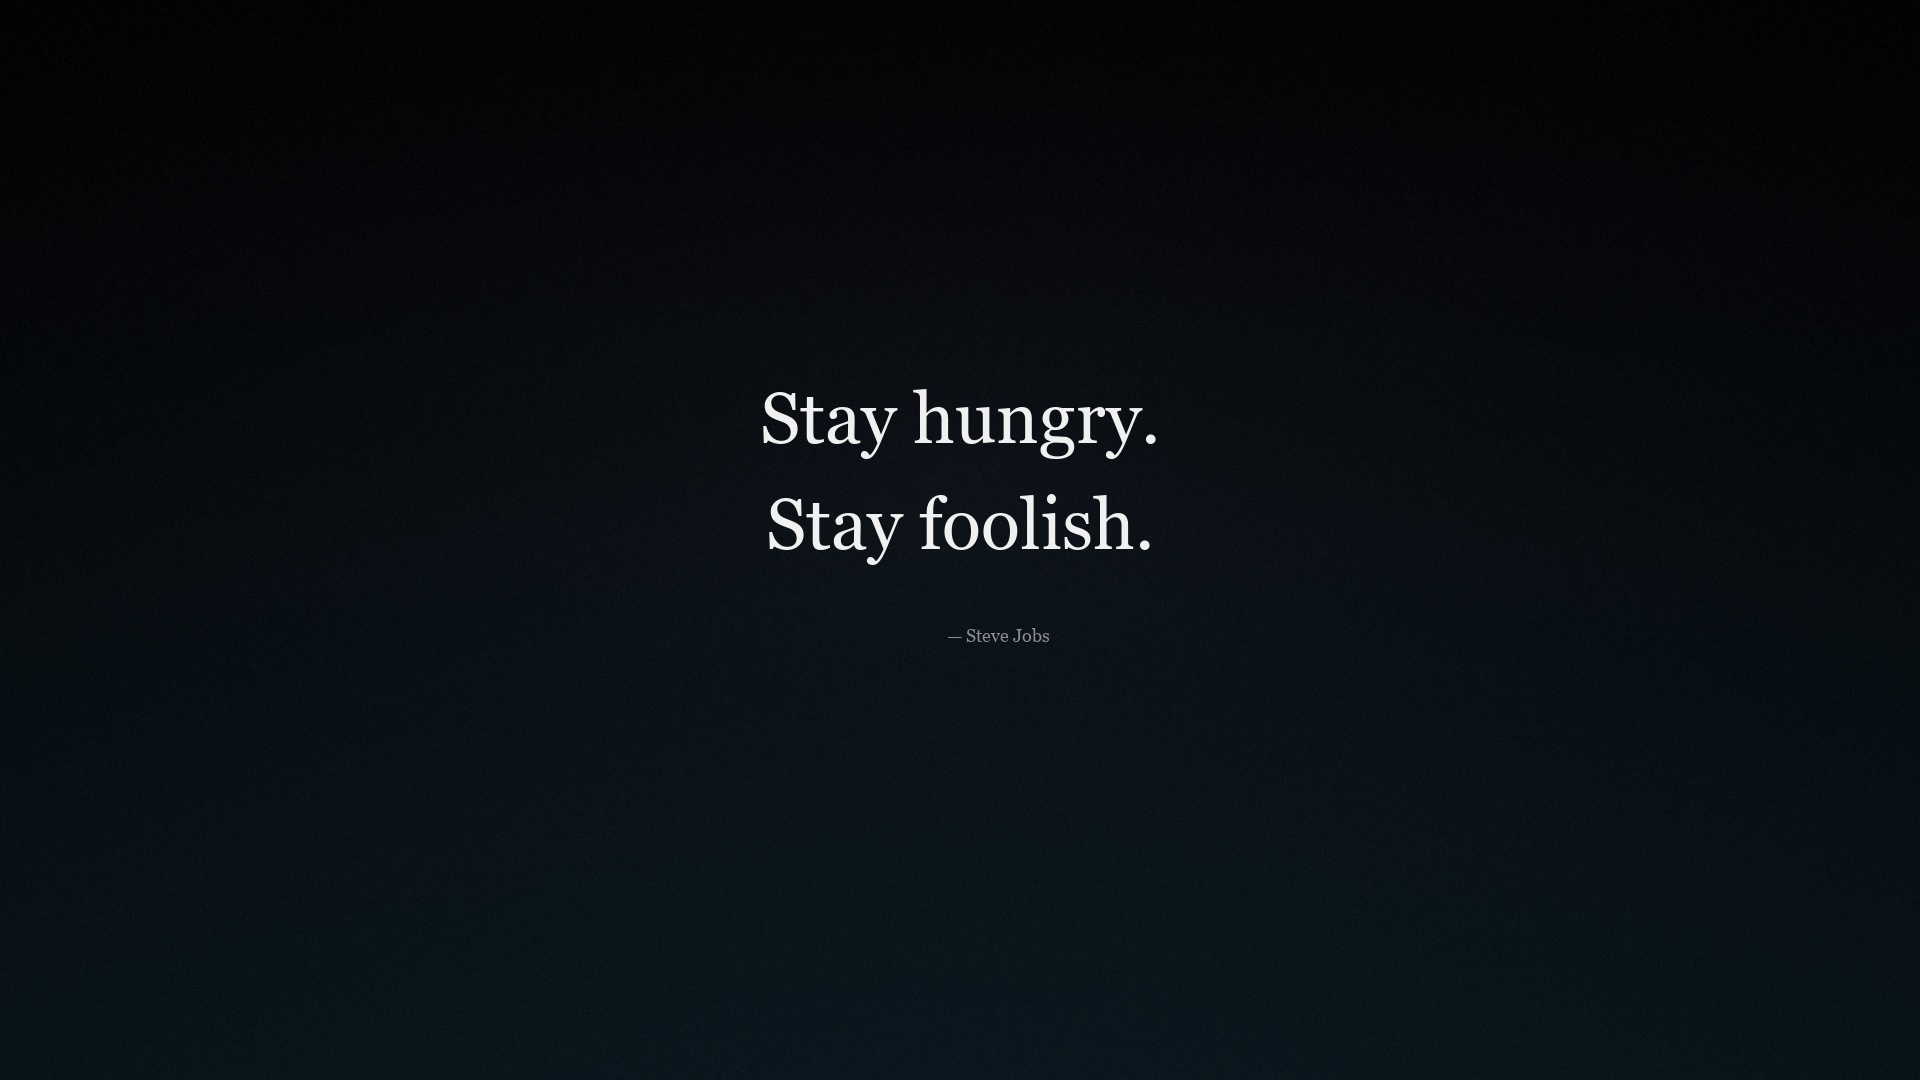
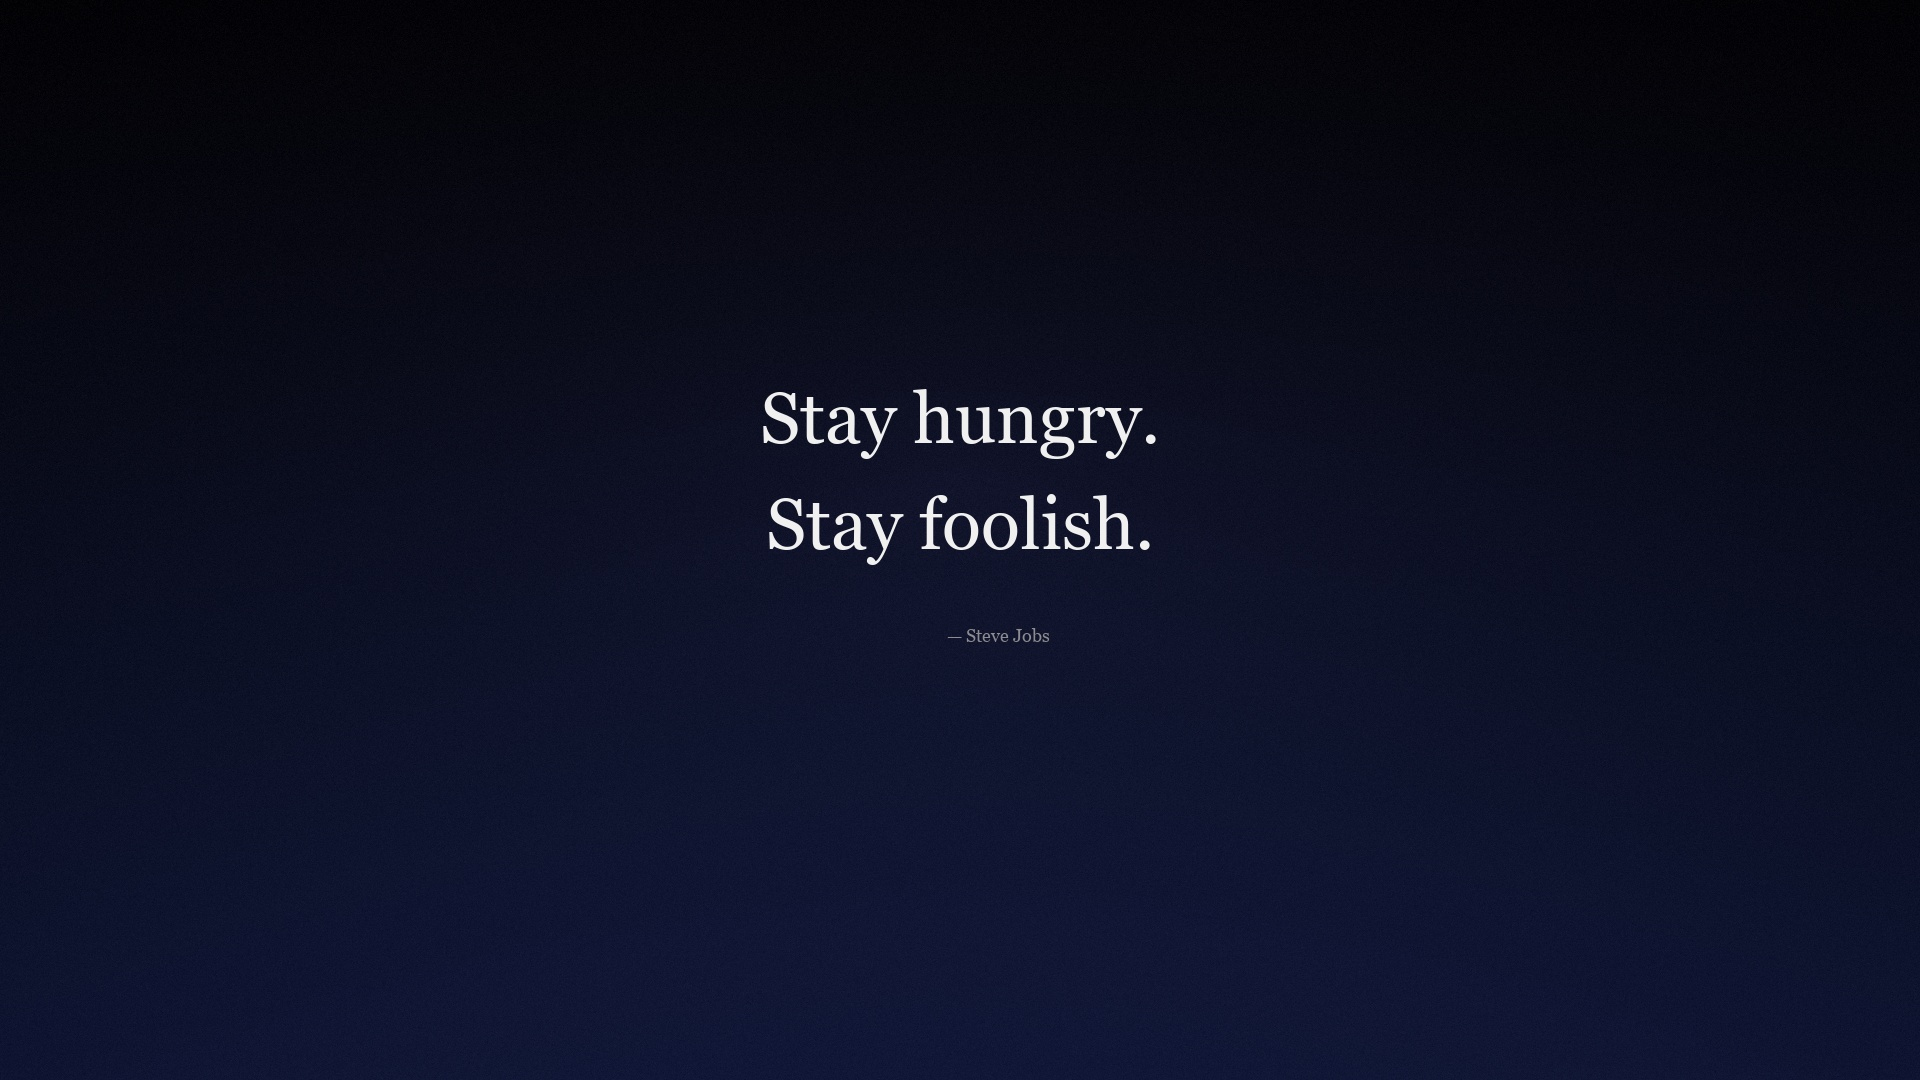
Strengthen bg colors 2x, add Garamond/Palatino/BookAntiqua fonts, --compare-font CLI

Changed region(s): [[0.0, 0.7028, 1.0, 1.0], [0.3125, 0.6111, 0.3438, 0.6417]]

diff --git a/src/wallpaper_generator.py b/src/wallpaper_generator.py
@@ -31,6 +31,20 @@ FONTS_SERIF = [
     "C:/Windows/Fonts/times.ttf",
 ]
 
+# Premium serif fonts available on Windows — more character than Georgia
+FONTS_GARAMOND = [
+    "C:/Windows/Fonts/GARA.TTF",          # Garamond — elegant, classic
+    "C:/Windows/Fonts/georgia.ttf",
+]
+FONTS_PALATINO = [
+    "C:/Windows/Fonts/pala.ttf",           # Palatino Linotype — warm, refined
+    "C:/Windows/Fonts/georgia.ttf",
+]
+FONTS_BOOKANTIQUA = [
+    "C:/Windows/Fonts/BOOKOS.TTF",         # Book Antiqua — literary, clean
+    "C:/Windows/Fonts/georgia.ttf",
+]
+
 FONTS_REGULAR = [
     "C:/Windows/Fonts/segoeuisl.ttf",    # Semilight for author
     "C:/Windows/Fonts/segoeuil.ttf",
@@ -69,7 +83,28 @@ STYLE_PRESETS: dict[str, dict[str, Any]] = {
         "font_author_candidates": FONTS_SERIF,
         "size_scale": 0.85,
         "author_color": (140, 140, 145),
-        "description": "Classic serif",
+        "description": "Georgia serif",
+    },
+    "garamond": {
+        "font_candidates": FONTS_GARAMOND,
+        "font_author_candidates": FONTS_GARAMOND,
+        "size_scale": 0.90,
+        "author_color": (140, 140, 145),
+        "description": "Garamond — elegant classic",
+    },
+    "palatino": {
+        "font_candidates": FONTS_PALATINO,
+        "font_author_candidates": FONTS_PALATINO,
+        "size_scale": 0.85,
+        "author_color": (140, 140, 145),
+        "description": "Palatino — warm refined",
+    },
+    "bookantiqua": {
+        "font_candidates": FONTS_BOOKANTIQUA,
+        "font_author_candidates": FONTS_BOOKANTIQUA,
+        "size_scale": 0.85,
+        "author_color": (140, 140, 145),
+        "description": "Book Antiqua — literary clean",
     },
 }
 
@@ -232,34 +267,34 @@ def _generate_gradient(width: int, height: int) -> Image.Image:
 
 
 def _generate_spotlight(width: int, height: int) -> Image.Image:
-    """Spotlight: clear light cone from upper-center, dark surroundings.
+    """Spotlight: visible light pool at center, deep indigo-black edges.
 
-    The quote sits in a pool of soft light. Edges fall off noticeably.
+    Quote floats in a soft blue-tinted light. Clearly not flat black.
     """
     ys = np.linspace(0, 1, height, dtype=np.float32).reshape(-1, 1)
     xs = np.linspace(0, 1, width, dtype=np.float32).reshape(1, -1)
 
-    # Base: very dark
-    r = np.full((height, width), 5.0, dtype=np.float32)
-    g = np.full((height, width), 5.0, dtype=np.float32)
-    b = np.full((height, width), 8.0, dtype=np.float32)
+    # Base: deep indigo-black (not pure black — has color)
+    r = np.full((height, width), 6.0, dtype=np.float32)
+    g = np.full((height, width), 6.0, dtype=np.float32)
+    b = np.full((height, width), 16.0, dtype=np.float32)   # visible blue-black
 
-    # Primary spotlight: upper-center, oval, strong enough to see clearly
-    spot_cx, spot_cy = 0.50, 0.35
-    spot_dist = np.sqrt((xs - spot_cx) ** 2 / 0.18 + (ys - spot_cy) ** 2 / 0.12)
-    spot = np.clip(1.0 - spot_dist, 0, 1) ** 2.0 * 38  # visible cone of light
+    # Primary spotlight: center, oval, strong — the defining feature
+    spot_cx, spot_cy = 0.50, 0.38
+    spot_dist = np.sqrt((xs - spot_cx) ** 2 / 0.16 + (ys - spot_cy) ** 2 / 0.10)
+    spot = np.clip(1.0 - spot_dist, 0, 1) ** 1.8 * 55  # strong pool of light
 
-    r = r + spot * 0.85
-    g = g + spot * 0.85
-    b = b + spot * 0.95  # slightly cool light
+    r = r + spot * 0.65
+    g = g + spot * 0.70
+    b = b + spot * 1.0   # distinctly cool/blue light
 
-    # Secondary fill: broader, weaker — prevents pure black at edges
-    fill_dist = np.sqrt((xs - 0.5) ** 2 + (ys - 0.5) ** 2)
+    # Fill glow: softer, broader — gives depth to mid-zones
+    fill_dist = np.sqrt((xs - 0.5) ** 2 + (ys - 0.48) ** 2)
     fill_dist = fill_dist / fill_dist.max()
-    fill = np.clip(1.0 - fill_dist, 0, 1) ** 1.8 * 10
-    r = r + fill * 0.7
-    g = g + fill * 0.7
-    b = b + fill * 0.8
+    fill = np.clip(1.0 - fill_dist, 0, 1) ** 2.0 * 15
+    r = r + fill * 0.5
+    g = g + fill * 0.5
+    b = b + fill * 0.9
 
     # Vignette: strong edge darkening
     vignette = 1.0 - (fill_dist ** 1.2 * 0.55)
@@ -267,7 +302,6 @@ def _generate_spotlight(width: int, height: int) -> Image.Image:
     g = g * vignette
     b = b * vignette
 
-    # Noise
     noise = np.random.normal(0, 2.0, (height, width)).astype(np.float32)
     r = np.clip(r + noise, 0, 255)
     g = np.clip(g + noise, 0, 255)
@@ -278,45 +312,43 @@ def _generate_spotlight(width: int, height: int) -> Image.Image:
 
 
 def _generate_deep_gradient(width: int, height: int) -> Image.Image:
-    """Deep gradient: near-black top → visible deep color at bottom.
+    """Deep gradient: black top → clearly visible deep navy/indigo at bottom.
 
-    Color difference is clearly perceptible but not vivid.
+    You can SEE the color — dark but unmistakably not just black.
     """
-    # Palettes with stronger color at bottom
     palettes = [
-        ((4, 4, 6),   (18, 24, 48)),     # black → deep navy
-        ((4, 4, 6),   (12, 28, 36)),     # black → smoky teal
-        ((4, 4, 8),   (22, 16, 42)),     # black → dark indigo
-        ((4, 4, 6),   (16, 22, 40)),     # black → midnight blue
+        ((4, 4, 8),   (22, 32, 72)),     # black → deep navy (strong)
+        ((4, 4, 8),   (14, 36, 56)),     # black → deep teal-blue
+        ((4, 4, 10),  (30, 20, 62)),     # black → blue-violet
+        ((4, 4, 8),   (20, 28, 65)),     # black → midnight indigo
     ]
     top_color, bottom_color = random.choice(palettes)
 
     ys = np.linspace(0, 1, height, dtype=np.float32).reshape(-1, 1)
     xs = np.linspace(0, 1, width, dtype=np.float32).reshape(1, -1)
 
-    # Ease-in curve: stays dark longer at top, color emerges in lower half
-    t = ys ** 1.4
+    # Ease-in: top stays black, color builds from ~40% down
+    t = ys ** 1.2
 
     r = top_color[0] + (bottom_color[0] - top_color[0]) * t
     g = top_color[1] + (bottom_color[1] - top_color[1]) * t
     b = top_color[2] + (bottom_color[2] - top_color[2]) * t
 
-    # Gentle center glow for text readability
+    # Center glow — keeps text readable against the darker upper half
     cx, cy = 0.5, 0.44
     dist = np.sqrt((xs - cx) ** 2 + (ys - cy) ** 2)
     dist = dist / dist.max()
-    glow = np.clip(1.0 - dist, 0, 1) ** 2 * 12
-    r = r + glow * 0.6
-    g = g + glow * 0.6
-    b = b + glow * 0.8  # cool-toned glow matching the palette
+    glow = np.clip(1.0 - dist, 0, 1) ** 2 * 14
+    r = r + glow * 0.5
+    g = g + glow * 0.5
+    b = b + glow * 0.9  # blue-toned glow
 
     # Mild vignette
-    vignette = 1.0 - (dist ** 1.5 * 0.30)
+    vignette = 1.0 - (dist ** 1.5 * 0.25)
     r = r * vignette
     g = g * vignette
     b = b * vignette
 
-    # Noise
     noise = np.random.normal(0, 2.0, (height, width)).astype(np.float32)
     r = np.clip(r + noise, 0, 255)
     g = np.clip(g + noise, 0, 255)
@@ -327,30 +359,28 @@ def _generate_deep_gradient(width: int, height: int) -> Image.Image:
 
 
 def _generate_textured_dark(width: int, height: int) -> Image.Image:
-    """Textured dark: subdued color, visible fine noise + subtle vertical streaks.
+    """Textured dark: deep indigo base with visible texture.
 
-    Feels like brushed dark metal or aged paper, not flat.
+    Color is subtle but present. Vertical streaks + noise = not flat.
     """
     ys = np.linspace(0, 1, height, dtype=np.float32).reshape(-1, 1)
     xs = np.linspace(0, 1, width, dtype=np.float32).reshape(1, -1)
 
-    # Near-uniform dark base with very slight vertical gradient
-    r = np.full((height, width), 12.0, dtype=np.float32) + ys * 6
-    g = np.full((height, width), 12.0, dtype=np.float32) + ys * 6
-    b = np.full((height, width), 14.0, dtype=np.float32) + ys * 8
+    # Dark base with visible indigo tint + slight gradient
+    r = np.full((height, width), 10.0, dtype=np.float32) + ys * 5
+    g = np.full((height, width), 10.0, dtype=np.float32) + ys * 6
+    b = np.full((height, width), 20.0, dtype=np.float32) + ys * 12  # indigo presence
 
     # Vertical streaks: column-wise brightness variation
-    # Creates a subtle brushed / fabric-like texture
-    col_variation = np.random.normal(0, 1.0, (1, width)).astype(np.float32)
-    # Smooth with cumulative sum approximation (no scipy needed)
+    col_variation = np.random.normal(0, 1.2, (1, width)).astype(np.float32)
     kernel_size = 61
     kernel = np.ones(kernel_size, dtype=np.float32) / kernel_size
     col_variation = np.convolve(col_variation.ravel(), kernel, mode="same").reshape(1, -1)
-    col_variation = col_variation * 4.0  # visible but not dominant
+    col_variation = col_variation * 5.0
 
-    r = r + col_variation
-    g = g + col_variation
-    b = b + col_variation * 0.8
+    r = r + col_variation * 0.6
+    g = g + col_variation * 0.6
+    b = b + col_variation * 1.0  # streaks carry the blue tone
 
     # Slow horizontal undulation: broad brightness bands
     row_variation = np.sin(ys * np.pi * 3.5) * 2.5
@@ -776,4 +806,32 @@ def generate_bg_comparison(
         )
         paths.append(path)
         logger.info("BG style '%s' saved: %s", bg, path)
+    return paths
+
+
+def generate_font_comparison(
+    quote: dict[str, Any],
+    config: dict[str, Any],
+    base_dir: Path,
+    bg_style: str = "deep_gradient",
+) -> list[Path]:
+    """Generate font comparison: Georgia / Garamond / Palatino / Book Antiqua."""
+    quote_id = quote.get("id", "unknown")
+    fonts = [
+        ("serif", "georgia"),
+        ("garamond", "garamond"),
+        ("palatino", "palatino"),
+        ("bookantiqua", "bookantiqua"),
+    ]
+    paths: list[Path] = []
+    for preset_name, label in fonts:
+        suffix = f"_{quote_id}_font_{label}"
+        path = generate_wallpaper(
+            quote, config, base_dir,
+            output_suffix=suffix,
+            style_preset=preset_name,
+            bg_style=bg_style,
+        )
+        paths.append(path)
+        logger.info("Font '%s' saved: %s", label, path)
     return paths

diff --git a/main.py b/main.py
@@ -50,6 +50,8 @@ def parse_args() -> argparse.Namespace:
                         help="Generate author size comparison (0.24/0.26/0.28)")
     parser.add_argument("--compare-bg", action="store_true",
                         help="Generate background style comparison (spotlight/deep_gradient/textured_dark)")
+    parser.add_argument("--compare-font", action="store_true",
+                        help="Generate font comparison (Georgia/Garamond/Palatino/BookAntiqua)")
     return parser.parse_args()
 
 
@@ -60,7 +62,7 @@ def main() -> None:
     from src.config_loader import load_config, load_quotes
     from src.history_manager import load_history, save_history, add_entry
     from src.quote_selector import select_quote
-    from src.wallpaper_generator import generate_wallpaper, generate_variants, generate_author_comparison, generate_bg_comparison, select_best_style
+    from src.wallpaper_generator import generate_wallpaper, generate_variants, generate_author_comparison, generate_bg_comparison, generate_font_comparison, select_best_style
     from src.wallpaper_setter import set_wallpaper
     from src.utils import get_current_season
 
@@ -102,6 +104,11 @@ def main() -> None:
             variant_paths = generate_variants(quote, config, BASE_DIR)
             for vp in variant_paths:
                 print(f"Variant saved: {vp}")
+            output_path = variant_paths[0]
+        elif args.compare_font:
+            variant_paths = generate_font_comparison(quote, config, BASE_DIR)
+            for vp in variant_paths:
+                print(f"Font comparison: {vp}")
             output_path = variant_paths[0]
         elif args.compare_bg:
             variant_paths = generate_bg_comparison(quote, config, BASE_DIR)
